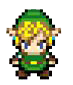
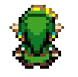
Add functionality for animation

diff --git a/Controller.java b/Controller.java
@@ -26,6 +26,9 @@ class Controller implements MouseListener, KeyListener {
 	}
 
 	public void update() {
+		// Save Link's previous position before updating
+		model.link.savePrev();
+
 		// If Link is colliding with a tile, snap Link to adjacent side of tile
 		if (model.isColliding()) // model.link.stopColliding();
 			System.out.println("colliding");
@@ -39,12 +42,51 @@ class Controller implements MouseListener, KeyListener {
 		if (keyRight) model.link.x += model.link.speed;
 
 		// If Link has moved to a new room, jump to room / update window
-		if (model.link.y < View.maxHeight && View.scroll_y > View.minHeight) View.scroll_y -= View.maxHeight;
-		if (model.link.y > View.maxHeight && View.scroll_y < View.maxHeight) View.scroll_y += View.maxHeight;
-		if (model.link.x < View.maxWidth && View.scroll_x > View.minWidth) View.scroll_x -= View.maxWidth;
-		if (model.link.x > View.maxWidth && View.scroll_x < View.maxWidth) View.scroll_x += View.maxWidth;
+		if (model.link.y < View.maxHeight && view.scroll_y > View.minHeight) view.scroll_y -= View.maxHeight;
+		if (model.link.y > View.maxHeight && view.scroll_y < View.maxHeight) view.scroll_y += View.maxHeight;
+		if (model.link.x < View.maxWidth && view.scroll_x > View.minWidth) view.scroll_x -= View.maxWidth;
+		if (model.link.x > View.maxWidth && view.scroll_x < View.maxWidth) view.scroll_x += View.maxWidth;
 	}
 
+	public void keyPressed(KeyEvent e) {
+		// Because function currently only takes Link movement into consideration, if edit is on, then arrow key movements
+		// don't need to be read, so break out of function
+		if (editOn) return;
+
+		switch(e.getKeyCode()) {
+			// If movement keys have been pressed, update corresponding boolean variables
+			// and set other key booleans to false to prevent diagonal movement. Calling function
+			// inside Link class to update direction Link is facing and animating movement
+			case KeyEvent.VK_UP:
+				keyUp = true;
+				keyDown = false;
+				keyLeft = false;
+				keyRight = false;
+				model.link.updateImage(0);
+			break;
+			case KeyEvent.VK_DOWN:
+				keyUp = false;
+				keyDown = true;
+				keyLeft = false;
+				keyRight = false;
+				model.link.updateImage(1);
+			break;
+			case KeyEvent.VK_LEFT: 
+				keyUp = false;
+				keyDown = false;
+				keyLeft = true;
+				keyRight = false;
+				model.link.updateImage(2);
+			break;
+			case KeyEvent.VK_RIGHT:
+				keyUp = false;
+				keyDown = false;
+				keyLeft = false;
+				keyRight = true;
+				model.link.updateImage(3);
+			break;
+		}
+	}
 	public void keyReleased(KeyEvent e) {
 		switch(e.getKeyCode()) {
 			// If movement keys have been released, update corresponding boolean variables
@@ -66,10 +108,10 @@ class Controller implements MouseListener, KeyListener {
 			break;
 
 			// If currently touching opposite border, update scroll position to desired border
-			case KeyEvent.VK_W: if (editOn && View.scroll_y == View.maxHeight) View.scroll_y -= View.maxHeight; break;
-			case KeyEvent.VK_X: if (editOn && View.scroll_y == View.minHeight) View.scroll_y += View.maxHeight; break;
-			case KeyEvent.VK_A: if (editOn && View.scroll_x == View.maxWidth) View.scroll_x -= View.maxWidth; break;
-			case KeyEvent.VK_D: if (editOn && View.scroll_x == View.minWidth) View.scroll_x += View.maxWidth; break;
+			case KeyEvent.VK_W: if (editOn && view.scroll_y == View.maxHeight) view.scroll_y -= View.maxHeight; break;
+			case KeyEvent.VK_X: if (editOn && view.scroll_y == View.minHeight) view.scroll_y += View.maxHeight; break;
+			case KeyEvent.VK_A: if (editOn && view.scroll_x == View.maxWidth) view.scroll_x -= View.maxWidth; break;
+			case KeyEvent.VK_D: if (editOn && view.scroll_x == View.minWidth) view.scroll_x += View.maxWidth; break;
 
 			// If editing mode is currently on, save current ArrayList of tiles to map.json
 			case KeyEvent.VK_S: if (editOn) model.marshal().save("map.json"); break;
@@ -82,44 +124,6 @@ class Controller implements MouseListener, KeyListener {
             case KeyEvent.VK_ESCAPE: System.exit(0); break;
 		}
 	}
-	public void keyPressed(KeyEvent e) {
-		// Because function currently only takes Link movement into consideration, if edit is on, then arrow key movements
-		// don't need to be read, so return out of function
-		if (editOn) return;
-
-		switch(e.getKeyCode()) {
-			// If movement keys have been pressed, update corresponding boolean variables
-			// set other key booleans to false to prevent diagonal movement
-			case KeyEvent.VK_UP:
-				keyUp = true;
-				keyDown = false;
-				keyLeft = false;
-				keyRight = false;
-				model.link.isMoving = true;
-			break;
-			case KeyEvent.VK_DOWN:
-				keyUp = false;
-				keyDown = true;
-				keyLeft = false;
-				keyRight = false;
-				model.link.isMoving = true;
-			break;
-			case KeyEvent.VK_LEFT: 
-				keyUp = false;
-				keyDown = false;
-				keyLeft = true;
-				keyRight = false;
-				model.link.isMoving = true;
-			break;
-			case KeyEvent.VK_RIGHT:
-				keyUp = false;
-				keyDown = false;
-				keyLeft = false;
-				keyRight = true;
-				model.link.isMoving = true;
-			break;
-		}
-	}
 	public void keyTyped(KeyEvent e) {}
 
 	public void mousePressed(MouseEvent e) {
@@ -127,8 +131,8 @@ class Controller implements MouseListener, KeyListener {
 		if (!editOn) return;
 
 		// Calculate position clicked - take into account scroll position, snapping tile to grid
-		int x = (e.getX() + View.scroll_x)  - ((e.getX() + View.scroll_x) % Tile.width);
-		int y = (e.getY() + View.scroll_y) - ((e.getY() + View.scroll_y) % Tile.height);
+		int x = (e.getX() + view.scroll_x)  - ((e.getX() + view.scroll_x) % Tile.width);
+		int y = (e.getY() + view.scroll_y) - ((e.getY() + view.scroll_y) % Tile.height);
 
 		// Check each tile in ArrayList, if clicked on tile that already exists, remove tile and return
 		for (Tile tile : model.tiles) {

diff --git a/Link.java b/Link.java
@@ -3,8 +3,9 @@ import java.awt.Image;
 import java.awt.Graphics;
 
 public class Link {
-    // Integers for storing Link's coordinates
+    // Integers for storing Link's coordinates / previous coordinates for collision fixing
     int x, y;
+    int prev_x, prev_y;
 
     // TODO: Set Link's width and height to be width and height of current image?
     // Integers for Link's width/height
@@ -16,17 +17,28 @@ public class Link {
     // Boolean to check whether Link is currently moving
     boolean isMoving;
 
+    // Integer to store Link's direction:
+    // 0 = up
+    // 1 = down
+    // 2 = left
+    // 3 = right
+
+    // TODO: #6 Change to enum for greater readability
+    int direction;
+
+    // Integer for current image of Link's movement animation
+    int currImage;
+
     // Image arrays to store Link movement images
-    Image linkStill;
-    Image[] linkUp;
-    Image[] linkDown;
-    Image[] linkLeft;
-    Image[] linkRight;
+    Image[] linkStill, linkUp, linkDown, linkLeft, linkRight;
     static Image image = null;
 
     public Link() {
+        // Load link animation images into corresponding arrays
         if (image == null) {
-            linkStill = View.loadImage("res/link/still/0.png");
+            linkStill = new Image[4];
+            for (int i = 0; i < linkStill.length; i++)
+                linkStill[i] = View.loadImage("res/link/still/" + i + ".png");
 
             linkUp = new Image[11];
             for (int i = 0; i < linkUp.length; i++)
@@ -46,6 +58,7 @@ public class Link {
         }
     }
 
+    // Print Link information
     @Override
     public String toString() {
         return ("Link (x, y) = (" + this.x + ", " + this.y + ")");
@@ -55,14 +68,42 @@ public class Link {
         
     }
 
-    public void draw(Graphics g) {
+    // Draw Link onto screen
+    public void draw(Graphics g, int scroll_x, int scroll_y) {
+        // Calculate Link's current position on screen
+        int x = this.x - scroll_x;
+        int y = this.y - scroll_y;
+
+        // If link is not currently moving, draw still image of Link's current direction and leave function
         if (!isMoving) {
-            g.drawImage(linkStill, x - View.scroll_x, y - View.scroll_y, null);
+            g.drawImage(linkStill[direction], x, y, null);
             return;
         }
 
-        g.drawImage(linkUp[3], x - View.scroll_x, y - View.scroll_y, null);
-        
+        // If link is moving, draw images for animation depending on direction of movement
+        switch (direction) {
+            case 0: g.drawImage(linkUp[currImage], x, y, null); break;
+            case 1: g.drawImage(linkDown[currImage], x, y, null); break;
+            case 2: g.drawImage(linkLeft[currImage], x, y, null); break;
+            case 3: g.drawImage(linkRight[currImage], x, y, null); break;
+        }
+    }
+
+    // Update current Link image frame and direction
+    public void updateImage(int direction) {
+        this.direction = direction;
+        this.isMoving = true;
+
+        currImage++;
+
+        // Need to check if currImage has reached max frame for each direction, reset to 0 if so
+        if (currImage == 13)
+            currImage = 0;
+    }
+
+    public void savePrev() {
+        this.x = prev_x;
+        this.y = prev_y;
     }
 
     // TODO: #2 Fix Link's position if colliding with tile

diff --git a/Game.java b/Game.java
@@ -18,10 +18,13 @@ public class Game extends JFrame {
 		view.addMouseListener(controller);
 		this.addKeyListener(controller);
 
-		// size of window to perfectly fit tiles differs based on operating system (top padding with title / exit button, aspect ratio?)
-		// this.setSize(700, 525); // Mac
-		this.setSize(716, 539); // Windows
+		// Size of window to perfectly fit tiles seems to differ
+		// based on operating system (top padding with title / exit button, aspect ratio?)
+		this.setSize(700, 525); // Mac
+		// this.setSize(716, 539); // Windows
 		// this.setSize(700, 500); // default
+
+		this.setTitle("A4 - Collision Detection & Animation");
 		this.setFocusable(true);
 		this.getContentPane().add(view);
 		this.setDefaultCloseOperation(JFrame.EXIT_ON_CLOSE);
@@ -32,17 +35,17 @@ public class Game extends JFrame {
 
 	public void run() {
 		while (true) {
-			// only update Link movement if currently not in editing mode
+			// Only update Link movement if currently not in editing mode
 			if (!Controller.editOn)
 				controller.update();
 			
 			// model.update();
 			view.repaint(); 
 
-			// update screen
+			// Update screen
 			Toolkit.getDefaultToolkit().sync();
 
-			// sleep for 40 milliseconds (25 FPS)
+			// Sleep for 40 milliseconds (25 FPS)
 			try {
 				Thread.sleep(40);
 			} catch (Exception e) {

diff --git a/Tile.java b/Tile.java
@@ -3,8 +3,12 @@
 // Description: Class for single tile placed on JFrame window
 
 public class Tile {
+    // Static integers for storing tile images' widths and heights
     static final int width = 50, height = 50;
+
+    // Integers for storing Tile's coordinates
     int x, y;
+
     // TODO: #4 Add BufferedImage attribute to store current tile's image
 
     public Tile(int x, int y) {
@@ -12,20 +16,24 @@ public class Tile {
         this.y = y;
     }
 
+    // Print tile information
     @Override
     public String toString() {
         return ("Tile (x, y) = (" + this.x + ", " + this.y + ")");
     }
 
+    // Load data from Json file, set attributes of current tile
     public Tile(Json ob) {
         this.x = (int) ob.getLong("x");
         this.y = (int) ob.getLong("y");
     }
 
+    // Check if parameter coordinates match a tile's coordinates
     public boolean isOnTile(int x, int y) {
         return (this.x == x && this.y == y);
     }
 
+    // Marshal a tile's data to Json object
     public Json marshal() {
         Json ob = Json.newObject();
         ob.add("x", x);

diff --git a/View.java b/View.java
@@ -18,7 +18,7 @@ class View extends JPanel {
 	public static final int minWidth = 0, minHeight = 0, maxWidth = 700, maxHeight = 500;
 
 	// Integers to store window's scroll position
-	public static int scroll_x, scroll_y;
+	int scroll_x, scroll_y;
 
 	// BufferedImage variables for various tile images
 	BufferedImage cyanTile, greenTile, magentaTile, redTile;
@@ -98,7 +98,7 @@ class View extends JPanel {
 		}
 
 		// Make Link draw himself onto screen
-		model.link.draw(g);
+		model.link.draw(g, scroll_x, scroll_y);
 
 		// If edit mode is currently on, display text to screen
 		if (Controller.editOn) {

diff --git a/Model.java b/Model.java
@@ -42,8 +42,10 @@ public class Model {
 		// If Link isn't not colliding with a tile, return true
 		// If all tiles have been checked, return false
 		for (Tile tile : tiles)
-			if (!(link.x + link.width < tile.x || link.x > Tile.width + tile.x
-				|| link.y + link.height < tile.y || link.y + (link.height / 2) > Tile.height + tile.y))
+			if (!(link.x + link.width < tile.x
+				|| link.x > Tile.width + tile.x
+				|| link.y + link.height < tile.y
+				|| link.y + (link.height / 2) > Tile.height + tile.y))
 				return true;
 		return false;
 	}
